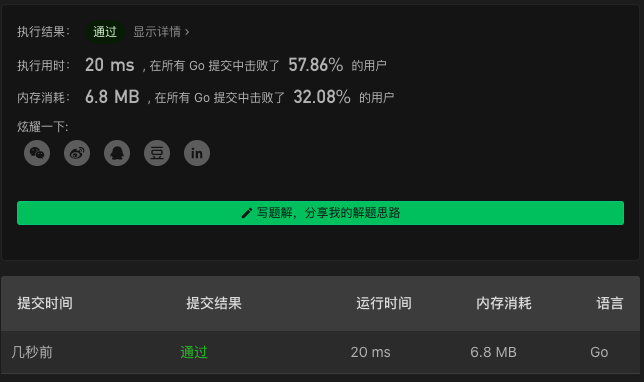
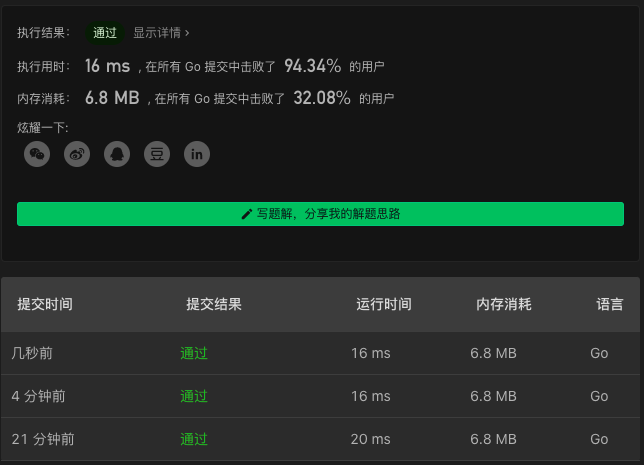
641. Design Circular Deque

diff --git a/641. Design Circular Deque.md b/641. Design Circular Deque.md
@@ -6,7 +6,7 @@
 
 ```go
 type MyCircularDeque struct {
-    front, rear int
+    front, rear, capacity int
     numbers []int
     full bool
 }
@@ -15,6 +15,7 @@ type MyCircularDeque struct {
 /** Initialize your data structure here. Set the size of the deque to be k. */
 func Constructor(k int) MyCircularDeque {
     return MyCircularDeque{
+        capacity: k,
         numbers: make([]int, k),
     }
 }
@@ -23,7 +24,7 @@ func Constructor(k int) MyCircularDeque {
 /** Adds an item at the front of Deque. Return true if the operation is successful. */
 func (this *MyCircularDeque) InsertFront(value int) bool {
     if this.IsFull() { return false }
-    this.front = (this.front+cap(this.numbers)-1) % cap(this.numbers)
+    this.front = (this.front+this.capacity-1) % this.capacity
     this.numbers[this.front] = value
     this.full = this.front == this.rear
     return true
@@ -34,7 +35,7 @@ func (this *MyCircularDeque) InsertFront(value int) bool {
 func (this *MyCircularDeque) InsertLast(value int) bool {
     if this.IsFull() { return false }
     this.numbers[this.rear] = value
-    this.rear = (this.rear+1) % cap(this.numbers)
+    this.rear = (this.rear+1) % this.capacity
     this.full = this.rear == this.front
     return true
 }
@@ -43,7 +44,7 @@ func (this *MyCircularDeque) InsertLast(value int) bool {
 /** Deletes an item from the front of Deque. Return true if the operation is successful. */
 func (this *MyCircularDeque) DeleteFront() bool {
     if this.IsEmpty() { return false }
-    this.front = (this.front+1) % cap(this.numbers)
+    this.front = (this.front+1) % this.capacity
     this.full = false
     return true
 }
@@ -52,7 +53,7 @@ func (this *MyCircularDeque) DeleteFront() bool {
 /** Deletes an item from the rear of Deque. Return true if the operation is successful. */
 func (this *MyCircularDeque) DeleteLast() bool {
     if this.IsEmpty() { return false }
-    this.rear = (this.rear+cap(this.numbers)-1) % cap(this.numbers)
+    this.rear = (this.rear+this.capacity-1) % this.capacity
     this.full = false
     return true
 }
@@ -68,7 +69,7 @@ func (this *MyCircularDeque) GetFront() int {
 /** Get the last item from the deque. */
 func (this *MyCircularDeque) GetRear() int {
     if this.IsEmpty() { return -1 }
-    rear := (this.rear+cap(this.numbers)-1) % cap(this.numbers)
+    rear := (this.rear+this.capacity-1) % this.capacity
     return this.numbers[rear]
 }
 
@@ -102,6 +103,127 @@ func (this *MyCircularDeque) IsFull() bool {
 ## 解法效果
 
 ![641. design-circular-deque](./img/641. design-circular-deque.png)
+
+## 哨兵 + 循环双向链表解法
+
+```go
+type MyCircularDeque struct {
+    capacity, count int
+    sentinel *DequeNode
+}
+
+type DequeNode struct {
+    value int
+    prev, next *DequeNode
+}
+
+/** Initialize your data structure here. Set the size of the deque to be k. */
+func Constructor(k int) MyCircularDeque {
+    var sentinel DequeNode
+    sentinel.prev = &sentinel
+    sentinel.next = &sentinel
+    return MyCircularDeque{
+        capacity: k,
+        sentinel: &sentinel,
+    }
+}
+
+
+/** Adds an item at the front of Deque. Return true if the operation is successful. */
+func (this *MyCircularDeque) InsertFront(value int) bool {
+    if this.IsFull() { return false }
+    node := &DequeNode{
+        value: value,
+        prev: this.sentinel,
+        next: this.sentinel.next,
+    }
+    node.next.prev = node
+    this.sentinel.next = node
+    this.count++
+    return true
+}
+
+
+/** Adds an item at the rear of Deque. Return true if the operation is successful. */
+func (this *MyCircularDeque) InsertLast(value int) bool {
+    if this.IsFull() { return false }
+    node := &DequeNode{
+        value: value,
+        prev: this.sentinel.prev,
+        next: this.sentinel,
+    }
+    node.prev.next = node
+    this.sentinel.prev = node
+    this.count++
+    return true
+}
+
+
+/** Deletes an item from the front of Deque. Return true if the operation is successful. */
+func (this *MyCircularDeque) DeleteFront() bool {
+    if this.IsEmpty() { return false }
+    node := this.sentinel.next
+    node.next.prev = this.sentinel
+    this.sentinel.next = node.next
+    this.count--
+    return true
+}
+
+
+/** Deletes an item from the rear of Deque. Return true if the operation is successful. */
+func (this *MyCircularDeque) DeleteLast() bool {
+    if this.IsEmpty() { return false }
+    node := this.sentinel.prev
+    node.prev.next = this.sentinel
+    this.sentinel.prev = node.prev
+    this.count--
+    return true
+}
+
+
+/** Get the front item from the deque. */
+func (this *MyCircularDeque) GetFront() int {
+    if this.IsEmpty() { return -1 }
+    return this.sentinel.next.value
+}
+
+
+/** Get the last item from the deque. */
+func (this *MyCircularDeque) GetRear() int {
+    if this.IsEmpty() { return -1 }
+    return this.sentinel.prev.value
+}
+
+
+/** Checks whether the circular deque is empty or not. */
+func (this *MyCircularDeque) IsEmpty() bool {
+    return this.count == 0
+}
+
+
+/** Checks whether the circular deque is full or not. */
+func (this *MyCircularDeque) IsFull() bool {
+    return this.count == this.capacity
+}
+
+
+/**
+ * Your MyCircularDeque object will be instantiated and called as such:
+ * obj := Constructor(k);
+ * param_1 := obj.InsertFront(value);
+ * param_2 := obj.InsertLast(value);
+ * param_3 := obj.DeleteFront();
+ * param_4 := obj.DeleteLast();
+ * param_5 := obj.GetFront();
+ * param_6 := obj.GetRear();
+ * param_7 := obj.IsEmpty();
+ * param_8 := obj.IsFull();
+ */
+```
+
+## 解法效果
+
+![641. design-circular-deque](./img/641. design-circular-deque 2.png)
 
 ## 测试用例
 
